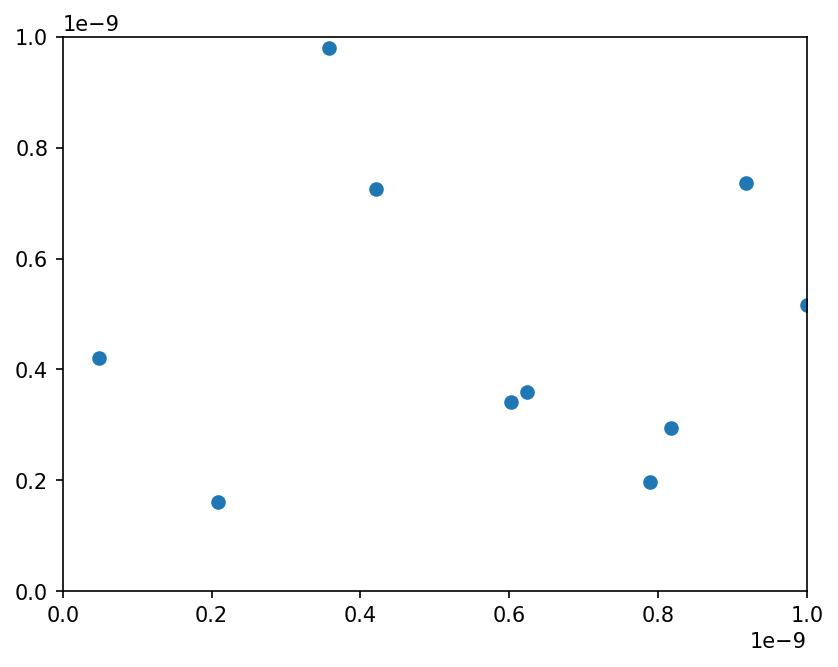
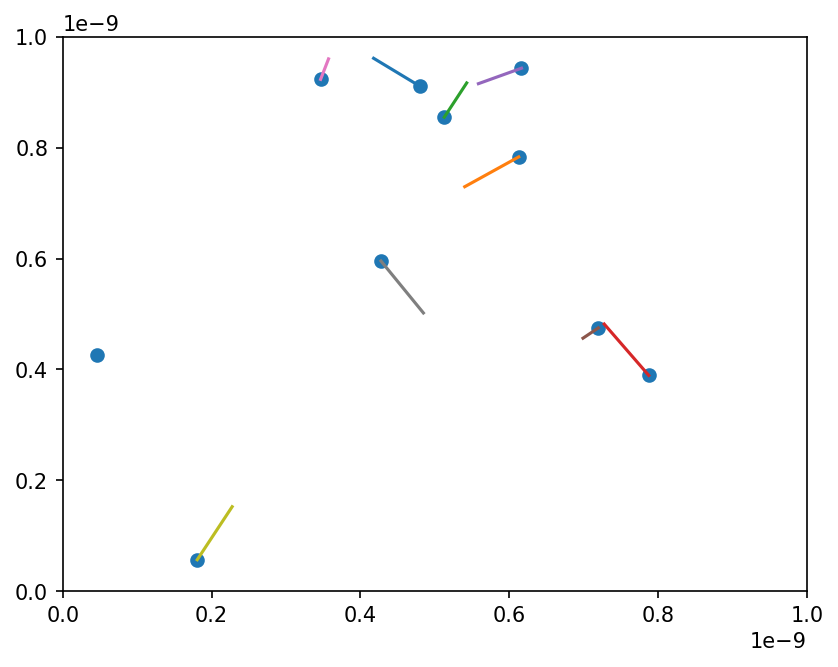
a

diff --git a/mario.py b/mario.py
@@ -30,7 +30,7 @@ box_size=1e-9
 n_dim=2
 num_particles=10 #200
 mass = 40/(6.022e+23)
-timestep=1e-18
+timestep=1e-98
 tail_lenght=50
 num_iterations=500
 save=True
